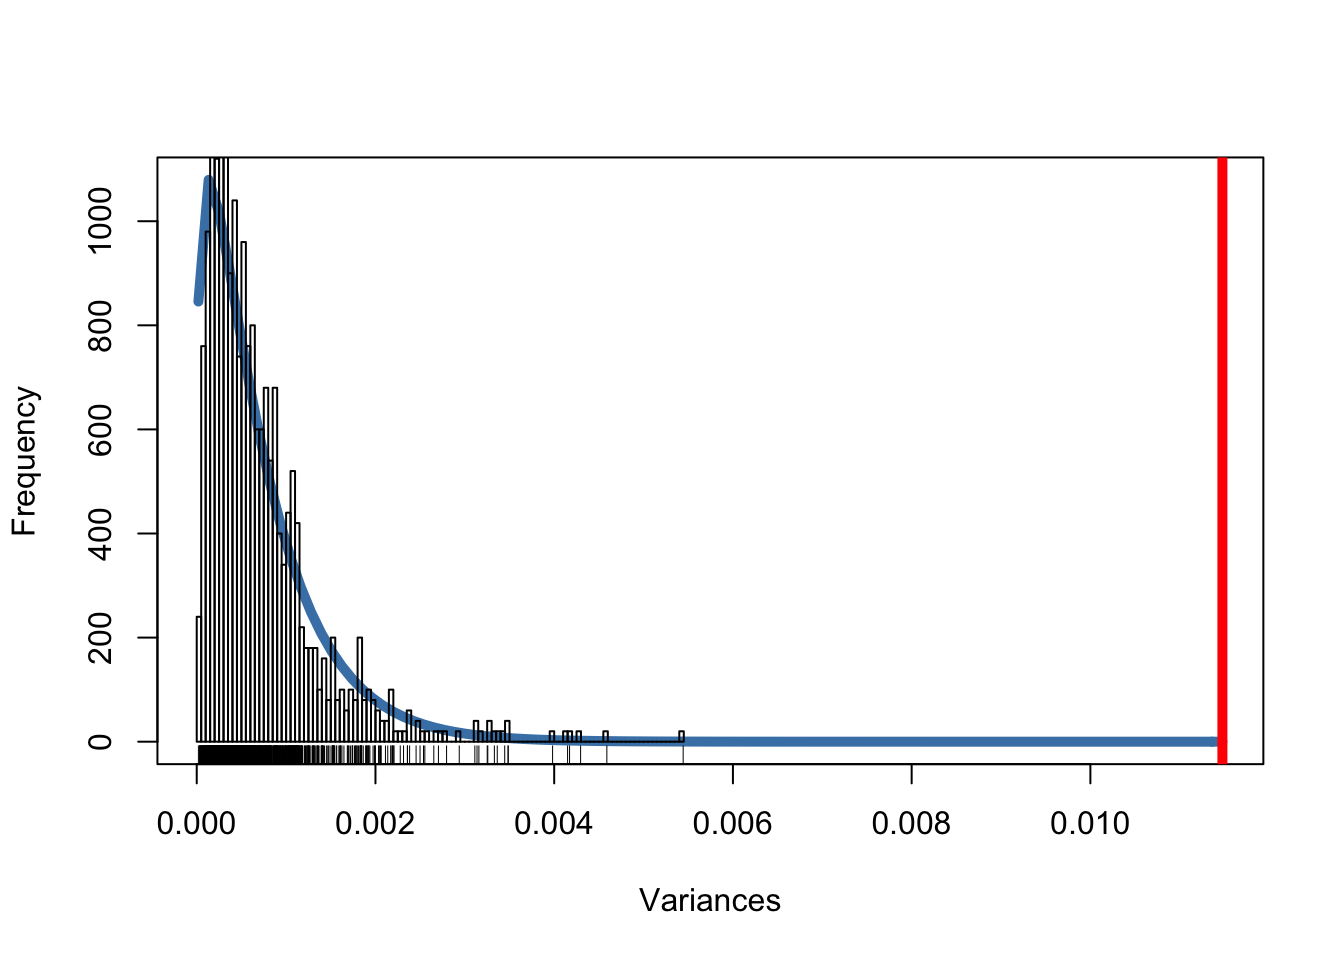
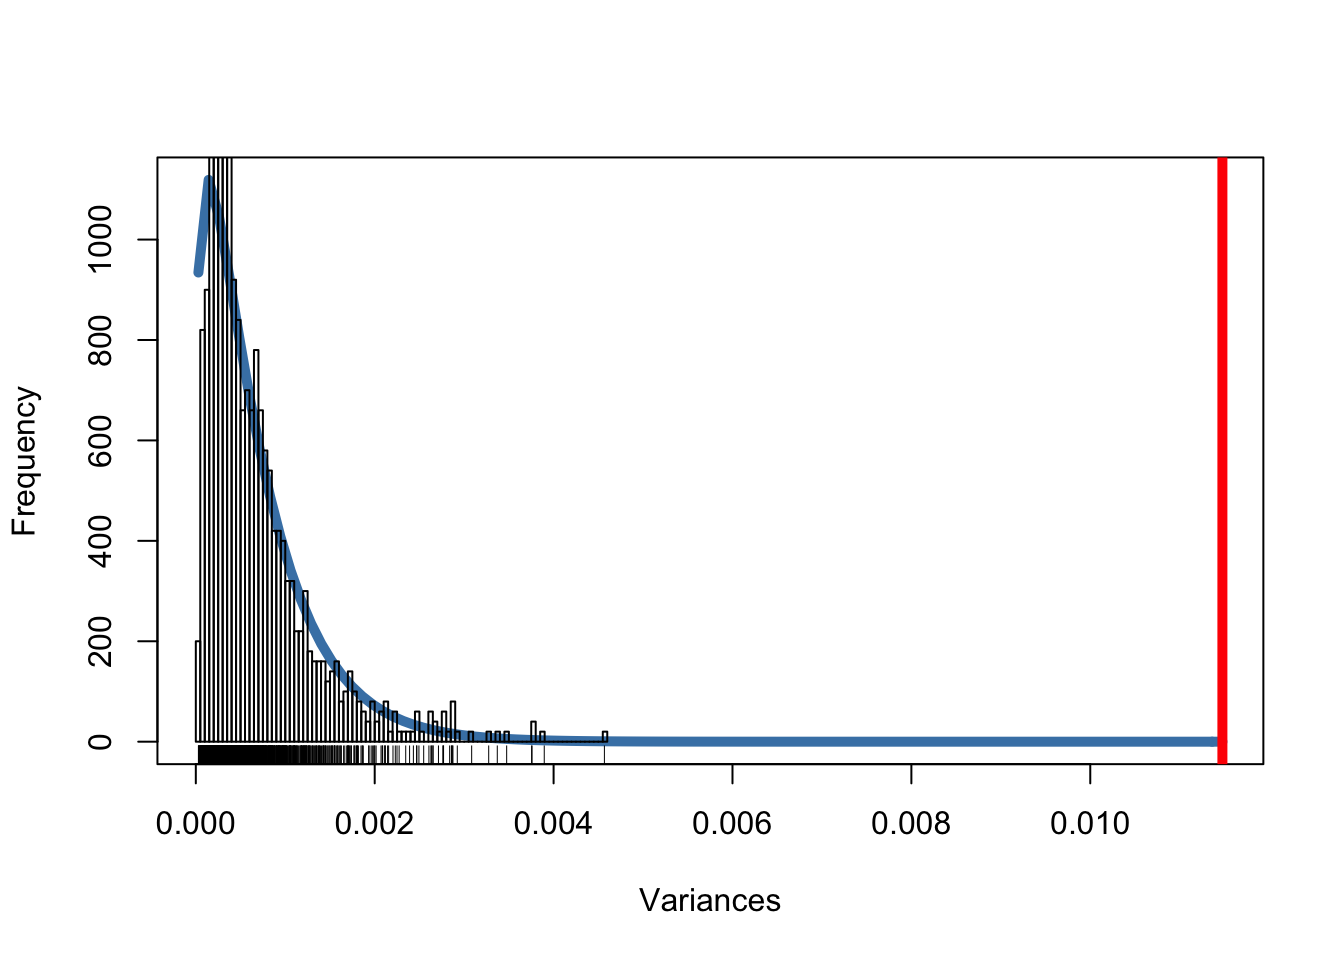
update docs

diff --git a/docs/articles/Intermediate.html b/docs/articles/Intermediate.html
@@ -154,7 +154,7 @@
 <pre><code>#&gt; Plot signature: ' TAI ' and test statistic: ' FlatLineTest '.</code></pre>
 <p><img src="Intermediate_files/figure-html/unnamed-chunk-4-1.png" width="672"></p>
 <pre><code>#&gt;   Zygote Quadrant Globular    Heart  Torpedo     Bent   Mature 
-#&gt; 3.466422 3.488428 3.495646 3.496013 3.506797 3.463541 3.389245</code></pre>
+#&gt; 3.509023 3.508096 3.525607 3.530896 3.509477 3.516558 3.563159</code></pre>
 <pre><code>  Zygote Quadrant Globular    Heart  Torpedo     Bent   Mature 
 3.543700 3.573999 3.554707 3.543376 3.582905 3.562813 3.523409 </code></pre>
 <p>Visualization:</p>
@@ -165,17 +165,17 @@
 <p>Now we investigate the variance of the two observed patterns.</p>
 <pre><code>#&gt; [1] 0.01147725</code></pre>
 <pre><code>[1] 0.01147725</code></pre>
-<pre><code>#&gt; [1] 0.001594469</code></pre>
+<pre><code>#&gt; [1] 0.0003872097</code></pre>
 <pre><code>[1] 0.0004102549</code></pre>
 <p>We observe that the variance of the randomly assigned TAI profile is much smaller than the variance of the correctly assigned TAI profile. Here we use the variance to quantify the <em>flatness</em> of a given TAI profile. In theory the variance of a perfect flat line would be zero. So any TAI profile that is close to zero would resemble a flat line. But how exactly are the variances of randomly assigned TAI profiles distributed? For this purpose the <code><a href="../reference/bootMatrix.html">bootMatrix()</a></code> function was implemented.</p>
 <p>The <code><a href="../reference/bootMatrix.html">bootMatrix()</a></code> takes an PhyloExpressionSet or DivergenceExpressionSet as input and computes N <code>TAI</code> or <code>TDI</code> profiles based on randomly assigned Phylostrata or Divergence-Strata.</p>
 <pre><code>#&gt;     Zygote Quadrant Globular    Heart  Torpedo     Bent   Mature
-#&gt; 1 3.474120 3.478800 3.478647 3.491057 3.490772 3.499926 3.477072
-#&gt; 2 3.554253 3.540531 3.533908 3.522949 3.533968 3.542555 3.524436
-#&gt; 3 3.451429 3.444702 3.469026 3.480706 3.473284 3.482509 3.576852
-#&gt; 4 3.430803 3.433154 3.436687 3.436704 3.400120 3.381230 3.463794
-#&gt; 5 3.494985 3.480247 3.500368 3.495544 3.518639 3.516857 3.507584
-#&gt; 6 3.624289 3.632873 3.645891 3.629026 3.626362 3.595143 3.474762</code></pre>
+#&gt; 1 3.580835 3.539910 3.513707 3.521912 3.528104 3.543361 3.636693
+#&gt; 2 3.461521 3.444057 3.403056 3.411001 3.428876 3.441253 3.457641
+#&gt; 3 3.521691 3.538324 3.556966 3.563347 3.563537 3.554635 3.517139
+#&gt; 4 3.529431 3.521278 3.500941 3.500666 3.513847 3.549420 3.531531
+#&gt; 5 3.519608 3.507732 3.493925 3.498266 3.504370 3.543671 3.543162
+#&gt; 6 3.468701 3.485303 3.507073 3.500929 3.502069 3.492986 3.493320</code></pre>
 <pre><code>    Zygote Quadrant Globular    Heart  Torpedo     Bent   Mature
 1 3.578000 3.577732 3.552230 3.556756 3.555627 3.553580 3.510978
 2 3.590339 3.564544 3.589012 3.598754 3.583721 3.597553 3.633530
@@ -213,12 +213,12 @@ fitdistrplus<span class="op">::</span><span class="kw"><a href="https://www.rdoc
 <p><img src="Intermediate_files/figure-html/unnamed-chunk-12-1.png" width="672"></p>
 <pre><code>#&gt; summary statistics
 #&gt; ------
-#&gt; min:  1.863947e-05   max:  0.005443164 
-#&gt; median:  0.0005358226 
-#&gt; mean:  0.0007105954 
-#&gt; estimated sd:  0.0006425155 
-#&gt; estimated skewness:  2.454932 
-#&gt; estimated kurtosis:  12.14477</code></pre>
+#&gt; min:  2.890457e-05   max:  0.004567979 
+#&gt; median:  0.000490142 
+#&gt; mean:  0.0006800312 
+#&gt; estimated sd:  0.0006102226 
+#&gt; estimated skewness:  2.092799 
+#&gt; estimated kurtosis:  8.853218</code></pre>
 <p>Based on the observation that a gamma distribution is a suitable fit for <code>variance_vector</code>, we can now estimate the parameters of the gamma distribution that fits the data.</p>
 <div class="sourceCode"><pre class="sourceCode r"><code class="sourceCode r"><span class="co"># estimate the parameters: shape and rate using 'moment matching estimation'</span>
 gamma_MME &lt;-<span class="st"> </span>fitdistrplus<span class="op">::</span><span class="kw"><a href="https://www.rdocumentation.org/packages/fitdistrplus/topics/fitdist">fitdist</a></span>(variance_vector,<span class="dt">distr =</span> <span class="st">"gamma"</span>, <span class="dt">method =</span> <span class="st">"mme"</span>)
@@ -248,7 +248,7 @@ histogram &lt;-<span class="st"> </span><span class="kw"><a href="https://www.rd
 <p>Using the gamma distribution with estimated parameters the corresponding p-value of <code>var_real</code> can be computed.</p>
 <div class="sourceCode"><pre class="sourceCode r"><code class="sourceCode r"><span class="co"># p-value of var_real</span>
 <span class="kw"><a href="https://www.rdocumentation.org/packages/stats/topics/GammaDist">pgamma</a></span>(var_real, <span class="dt">shape =</span> shape,<span class="dt">rate =</span> rate, <span class="dt">lower.tail =</span> <span class="ot">FALSE</span>)</code></pre></div>
-<pre><code>#&gt; [1] 5.586162e-09</code></pre>
+<pre><code>#&gt; [1] 1.80424e-09</code></pre>
 <p>Hence, the variance of the correct TAI profile significantly deviates from random TAI profiles and this allows us to assume that the underlying TAI profile captures a real evolutionary signal.</p>
 </div>
 <div id="using-the-flatlinetest-function" class="section level3">
@@ -304,7 +304,7 @@ histogram &lt;-<span class="st"> </span><span class="kw"><a href="https://www.rd
 <li><p>The two differences D1 = <span class="math inline">\(T_{early}\)</span> - <span class="math inline">\(T_{mid}\)</span> and D2 = <span class="math inline">\(T_{late}\)</span> - <span class="math inline">\(T_{mid}\)</span> are calculated.</p></li>
 <li><p>The minimum <span class="math inline">\(D_{min}\)</span> of D1 and D2 is computed as final test statistic of the <strong>Reductive Hourglass Test</strong>.</p></li>
 </ol>
-<p>In order to determine the statistical significance of an observed minimum difference <span class="math inline">\(D_{min}\)</span> the following permutation test was performed. Based on the <code><a href="../reference/bootMatrix.html">bootMatrix()</a></code> <span class="math inline">\(D_{min}\)</span> is calculated from each of the permuted TAI or TDI profiles, approximated by a Gaussian distribution with method of moments estimated parameters returned by <code><a href="https://www.rdocumentation.org/packages/fitdistrplus/topics/fitdist">fitdistrplus::fitdist()</a></code>, and the corresponding p-value is computed by <code>pnorm</code> given the estimated parameters of the Gaussian distribution. The goodness of fit for the random vector <span class="math inline">\(D_{min}\)</span> is statistically quantified by a <a href="http://amstat.tandfonline.com/doi/abs/10.1080/00031305.1986.10475419#.VDjzFCl_vek">Lilliefors (Kolmogorov-Smirnov) test</a> for normality.</p>
+<p>In order to determine the statistical significance of an observed minimum difference <span class="math inline">\(D_{min}\)</span> the following permutation test was performed. Based on the <code><a href="../reference/bootMatrix.html">bootMatrix()</a></code> <span class="math inline">\(D_{min}\)</span> is calculated from each of the permuted TAI or TDI profiles, approximated by a Gaussian distribution with method of moments estimated parameters returned by <code><a href="https://www.rdocumentation.org/packages/fitdistrplus/topics/fitdist">fitdistrplus::fitdist()</a></code>, and the corresponding p-value is computed by <code>pnorm</code> given the estimated parameters of the Gaussian distribution. The goodness of fit for the random vector <span class="math inline">\(D_{min}\)</span> is statistically quantified by a <a href="https://amstat.tandfonline.com/doi/abs/10.1080/00031305.1986.10475419#.XFnCFs_7TOR">Lilliefors (Kolmogorov-Smirnov) test</a> for normality.</p>
 <p>To perform the <strong>Reductive Hourglass Test</strong> you can use the <code><a href="../reference/ReductiveHourglassTest.html">ReductiveHourglassTest()</a></code> function. Using this function you need to divide the given phylotranscriptomic pattern into three developmental modules:</p>
 <ul>
 <li>early module</li>

diff --git a/docs/reference/DiffGenes.html b/docs/reference/DiffGenes.html
@@ -167,13 +167,13 @@
       <th>p.adjust.method</th>
       <td><p>p value correction method that is passed to <code><a href='https://www.rdocumentation.org/packages/stats/topics/p.adjust'>p.adjust</a></code>.
 Available options are:</p><ul>
-<li><p><code>p.adjust.method = "BH"</code> (Benjamini-Hochberg correction)
-<code>p.adjust.method = "bonferroni"</code> (Bonferroni correction)
-<code>p.adjust.method = "holm"</code>
-<code>p.adjust.method = "hochberg"</code>
-<code>p.adjust.method = "hommel"</code>
-<code>p.adjust.method = "BY"</code>
-<code>p.adjust.method = "fdr"</code></p></li>
+<li><p><code>p.adjust.method = "BH"</code> (Benjamini-Hochberg correction)</p></li>
+<li><p><code>p.adjust.method = "bonferroni"</code> (Bonferroni correction)</p></li>
+<li><p><code>p.adjust.method = "holm"</code></p></li>
+<li><p><code>p.adjust.method = "hochberg"</code></p></li>
+<li><p><code>p.adjust.method = "hommel"</code></p></li>
+<li><p><code>p.adjust.method = "BY"</code></p></li>
+<li><p><code>p.adjust.method = "fdr"</code></p></li>
 </ul><p>If <code>p.adjust.method = NULL</code> (Default) then no p-value correction is performed.</p></td>
     </tr>
     <tr>
@@ -218,7 +218,7 @@ transformed expression levels are stored in your input <code>ExpresisonSet</code
 <li><p><code>method = "wilcox.test"</code>: Wilcoxon Rank Sum Test between replicate expression levels of two samples.</p></li>
 <li><p><code>method = "doubletail"</code>: Computes two-sided p-values by doubling the smaller tail probability (see <code><a href='https://www.rdocumentation.org/packages/edgeR/topics/exactTest'>exactTestDoubleTail</a></code> for details).</p></li>
 <li><p><code>method = "smallp"</code>: Performs the method of small probabilities as proposed by Robinson and Smyth (2008) (see <code><a href='https://www.rdocumentation.org/packages/edgeR/topics/exactTest'>exactTestBySmallP</a></code> for details).</p></li>
-<li><p><code>method = "deviance"</code>: Uses the deviance goodness of fit statistics to define the rejection region, and is therefore equivalent to a conditional likelihood ratio test (see <code><a href='https://www.rdocumentation.org/packages/edgeR/topics/exactTest'>exactTestByDeviance</a></code> for details).</p></li>
+<li><p><code>method = "deviance"</code>: Uses the deviance goodness of fit statistics to define the rejection region, and is therefore equivalent to a conditional likelihood ratio test (see <code>edgeR</code> package for details).</p></li>
 </ul>
     <p>Exclude non differentially expressed genes from the result dataset:</p>
 <p>When specifying the <code>alpha</code> argument you furthermore, need to specify the <code>filter.method</code> to decide how non differentially expressed genes should be classified in multiple sample comparisons and which genes should be retained in the final dataset returned by <code>DiffGenes</code>. In other words, all genes &lt; <code>alpha</code> based on the following <code>filter.method</code> are removed from the result dataset.</p>

diff --git a/docs/reference/tf.html b/docs/reference/tf.html
@@ -192,7 +192,7 @@ to quantify the significance of interest.</p>
     <p>Piasecka B, Lichocki P, Moretti S, et al. (2013) The hourglass and the early conservation models--co-existing patterns of developmental constraints in vertebrates. PLoS Genet. 9(4): e1003476.</p>
 <p>Quint M., Drost H.G., Gabel A., Ullrich K.K., Boenn M., Grosse I. (2012) A transcriptomic hourglass in plant embryogenesis. Nature 490: 98-101.</p>
 <p>Domazet-Loso T., Tautz D. (2010) A phylogenetically based transcriptome age index mirrors ontogenetic divergence patterns. Nature 468: 815-8.</p>
-<p>Drost H.G., Gabel A., Grosse I., Quint M. (2015) Evidence for Active Maintenance of Phylotranscriptomic Hourglass Patterns in Animal and Plant Embryogenesis. Mol Biol Evol. 32 (5): 1221-1231. doi: 10.1093/molbev/msv012</p>
+<p>Drost HG et al. (2015) Mol Biol Evol. 32 (5): 1221-1231 doi:10.1093/molbev/msv012</p>
 <p>K.Y. Yeung et al.: Model-based clustering and data transformations for gene expression data. Bioinformatics 2001, 17:977-987</p>
 <p>K.Y. Yeung et al.:  Supplement to Model-based clustering and data transformations for gene expression data - Data Transformations and the Gaussian mixture assumption. Bioinformatics 2001, 17:977-987</p>
 <p>P.A.C. Hoen et al.: Deep sequencing-based expression analysis shows major advances in robustness, resolution and inter-lab portability over five microarray platforms. Nucleic Acids Research 2008, Vol. 36, No. 21</p>

diff --git a/docs/articles/Introduction.html b/docs/articles/Introduction.html
@@ -154,7 +154,9 @@
 <h2 class="hasAnchor">
 <a href="#motivation" class="anchor"></a>Motivation</h2>
 <p>Using embryo development of the plant <em>Arabidopsis thaliana</em> as an example, we ask the user to imagine how one would investigate the differences of developmental transcriptomes across developmental stages.</p>
-<p><img src="inst/Figures/Fig1.png" align="right" height="500" width="500"></p>
+<div class="figure">
+<img src="../../../../R%20Packages/Packages/myTAI/vignettes/Figures/Fig1.png">
+</div>
 <p style="font-size:10px;">
 Figure 1: Gene expression distributions (= developmental transcriptome) throughout seven stages of <em>A. thaliana</em> embryo development. Embryo development is divided into three phases: early embryogenesis (purple), mid-embryogenesis (green), and late embryogenesis (brown). This boxplot illustrates that the overall distributions of log2 expression levels (y-axis) hardly differ between developmental stages (x-axis) although the difference on the global scale is statistically significant (Kruskal-Wallis Rank Sum Test: p &lt; 2e-16). Hence, a clear visual pattern of gene expression differences between early, mid, and late embryogenesis on the global scale can not be inferred. Adapted from <a href="http://digital.bibliothek.uni-halle.de/urn/urn:nbn:de:gbv:3:4-18221">Drost, 2016</a>.
 </p>

diff --git a/docs/reference/CombinatorialSignificance.html b/docs/reference/CombinatorialSignificance.html
@@ -199,7 +199,6 @@ statistical significance of each pattern derived by the corresponding combinatio
 <li><p>1.3, 2.1, 3.1 -&gt; p-value for combination 7</p></li>
 <li><p>1.3, 2.2, 3.1 -&gt; p-value for combination 8</p></li>
 <li><p>1.3, 2.3, 3.1 -&gt; p-value for combination 9</p></li>
-<li><p>&#8230;</p></li>
 </ul><p>This procedure yields 27 p-values for the \(3^3\) (\(n_stages^n_replicates\)) replicate combinations.</p>
 <p>Note, that in case you have a large amount of stages/experiments and a large amount of replicates
 the computation time will increase by \(n_stages^n_replicates\). For 11 stages and 4 replicates, 4^11 = 4194304 p-values have to be computed. 
@@ -212,7 +211,7 @@ whether an critical value \(\alpha\) is exeeded or not (e.g. \(\alpha = 0.05\)).
     
     <h2 class="hasAnchor" id="references"><a class="anchor" href="#references"></a>References</h2>
 
-    <p>Drost HG et al. (2015). <em>Evidence for Active Maintenance of Phylotranscriptomic Hourglass Patterns in Animal and Plant Embryogenesis</em>. Mol Biol Evol. 32 (5): 1221-1231 doi:10.1093/molbev/msv012.</p>
+    <p>Drost HG et al. (2015) Mol Biol Evol. 32 (5): 1221-1231 doi:10.1093/molbev/msv012</p>
     
     <h2 class="hasAnchor" id="see-also"><a class="anchor" href="#see-also"></a>See also</h2>
 

diff --git a/docs/reference/MatchMap.html b/docs/reference/MatchMap.html
@@ -191,7 +191,7 @@ one expression level for one unique gene.</p>
     <p>Domazet-Loso T, Brajkovic J, Tautz D (2007) A phylostratigraphy approach to uncover the genomic history of major adaptations in metazoan lineages. Trends Genet. 23: 533-9.</p>
 <p>Domazet-Loso T, Tautz D (2010) A phylogenetically based transcriptome age index mirrors ontogenetic divergence patterns. Nature 468: 815-8.</p>
 <p>Quint M., Drost H.G., Gabel A., Ullrich K.K., Boenn M., Grosse I. (2012) A transcriptomic hourglass in plant embryogenesis. Nature 490: 98-101.</p>
-<p>Drost HG et al. (2015) <em>Evidence for Active Maintenance of Phylotranscriptomic Hourglass Patterns in Animal and Plant Embryogenesis</em>. Mol Biol Evol. 32 (5): 1221-1231 doi:10.1093/molbev/msv012.</p>
+<p>Drost HG et al. (2015) Mol Biol Evol. 32 (5): 1221-1231 doi:10.1093/molbev/msv012</p>
     
 
     <h2 class="hasAnchor" id="examples"><a class="anchor" href="#examples"></a>Examples</h2>

diff --git a/docs/reference/FlatLineTest.html b/docs/reference/FlatLineTest.html
@@ -209,7 +209,7 @@ is computed from this null distribution.</p>
     
     <h2 class="hasAnchor" id="references"><a class="anchor" href="#references"></a>References</h2>
 
-    <p>Drost HG et al.(2015). <em>Evidence for Active Maintenance of Phylotranscriptomic Hourglass Patterns in Animal and Plant Embryogenesis</em>. Mol Biol Evol. 32 (5): 1221-1231 doi:10.1093/molbev/msv012.</p>
+    <p>Drost HG et al. (2015) Mol Biol Evol. 32 (5): 1221-1231 doi:10.1093/molbev/msv012</p>
 <p>Quint M et al. (2012). A transcriptomic hourglass in plant embryogenesis. Nature (490): 98-101.</p>
 <p>M. L. Delignette-Muller, R. Pouillot, J.-B. Denis and C. Dutang (2014), fitdistrplus: help to fit of a parametric distribution to non-censored or censored data.</p>
 <p>Cullen AC and Frey HC (1999) Probabilistic techniques in exposure assessment. Plenum Press, USA, pp. 81-159.</p>

diff --git a/docs/reference/EarlyConservationTest.html b/docs/reference/EarlyConservationTest.html
@@ -235,7 +235,7 @@ This allows to quantify the permutation bias and their implications on the goodn
     
     <h2 class="hasAnchor" id="references"><a class="anchor" href="#references"></a>References</h2>
 
-    <p>Drost HG et al. (2015) <em>Evidence for Active Maintenance of Phylotranscriptomic Hourglass Patterns in Animal and Plant Embryogenesis</em>. Mol Biol Evol. 32 (5): 1221-1231 doi:10.1093/molbev/msv012.</p>
+    <p>Drost HG et al. (2015) Mol Biol Evol. 32 (5): 1221-1231 doi:10.1093/molbev/msv012</p>
 <p>Quint M et al. (2012). <em>A transcriptomic hourglass in plant embryogenesis</em>. Nature (490): 98-101.</p>
 <p>Piasecka B, Lichocki P, Moretti S, et al. (2013) <em>The hourglass and the early conservation models co-existing
 patterns of developmental constraints in vertebrates</em>. PLoS Genet. 9(4): e1003476.</p>

diff --git a/docs/reference/ReductiveHourglassTest.html b/docs/reference/ReductiveHourglassTest.html
@@ -235,7 +235,7 @@ This allows to quantify the permutation bias and their implications on the goodn
     
     <h2 class="hasAnchor" id="references"><a class="anchor" href="#references"></a>References</h2>
 
-    <p>Drost HG et al. (2015) <em>Evidence for Active Maintenance of Phylotranscriptomic Hourglass Patterns in Animal and Plant Embryogenesis</em>. Mol Biol Evol. 32 (5): 1221-1231 doi:10.1093/molbev/msv012.</p>
+    <p>Drost HG et al. (2015) Mol Biol Evol. 32 (5): 1221-1231 doi:10.1093/molbev/msv012</p>
 <p>Quint M et al. (2012). A transcriptomic hourglass in plant embryogenesis. Nature (490): 98-101.</p>
 <p>M. L. Delignette-Muller, R. Pouillot, J.-B. Denis and C. Dutang (2014), fitdistrplus: help to fit
 of a parametric distribution to non-censored or censored data.</p>

diff --git a/docs/reference/ReverseHourglassTest.html b/docs/reference/ReverseHourglassTest.html
@@ -234,7 +234,7 @@ This allows to quantify the permutation bias and their implications on the goodn
     
     <h2 class="hasAnchor" id="references"><a class="anchor" href="#references"></a>References</h2>
 
-    <p>Drost HG et al. (2015) <em>Evidence for Active Maintenance of Phylotranscriptomic Hourglass Patterns in Animal and Plant Embryogenesis</em>. Mol Biol Evol. 32 (5): 1221-1231 doi:10.1093/molbev/msv012.</p>
+    <p>Drost HG et al. (2015) Mol Biol Evol. 32 (5): 1221-1231 doi:10.1093/molbev/msv012</p>
 <p>Quint M et al. (2012). A transcriptomic hourglass in plant embryogenesis. Nature (490): 98-101.</p>
 <p>M. L. Delignette-Muller, R. Pouillot, J.-B. Denis and C. Dutang (2014), fitdistrplus: help to fit
 of a parametric distribution to non-censored or censored data.</p>

diff --git a/docs/reference/PlotPattern.html b/docs/reference/PlotPattern.html
@@ -250,7 +250,7 @@ the values stored in the <code>mid</code> argument to draw a shaded area within 
 
     <p>Domazet-Loso T and Tautz D. (2010). <em>A phylogenetically based transcriptome age index mirrors ontogenetic divergence patterns</em>. Nature (468): 815-818.</p>
 <p>Quint M et al. (2012). <em>A transcriptomic hourglass in plant embryogenesis</em>. Nature (490): 98-101.</p>
-<p>Drost HG et al. (2015) <em>Evidence for Active Maintenance of Phylotranscriptomic Hourglass Patterns in Animal and Plant Embryogenesis</em>. Mol Biol Evol. 32 (5): 1221-1231 doi:10.1093/molbev/msv012.</p>
+<p>Drost HG et al. (2015) Mol Biol Evol. 32 (5): 1221-1231 doi:10.1093/molbev/msv012.</p>
     
     <h2 class="hasAnchor" id="see-also"><a class="anchor" href="#see-also"></a>See also</h2>
 

diff --git a/docs/reference/TAI.html b/docs/reference/TAI.html
@@ -169,7 +169,7 @@ and ps_i denotes the corresponding phylostratum of gene i, \(i = 1,...,N\) and N
 
     <p>Domazet-Loso T. and Tautz D. (2010). <em>A phylogenetically based transcriptome age index mirrors ontogenetic divergence patterns</em>. Nature (468): 815-818.</p>
 <p>Quint M et al. (2012). <em>A transcriptomic hourglass in plant embryogenesis</em>. Nature (490): 98-101.</p>
-<p>Drost HG et al. (2015) <em>Evidence for Active Maintenance of Phylotranscriptomic Hourglass Patterns in Animal and Plant Embryogenesis</em>. Mol Biol Evol. 32 (5): 1221-1231 doi:10.1093/molbev/msv012.</p>
+<p>Drost HG et al. (2015) Mol Biol Evol. 32 (5): 1221-1231 doi:10.1093/molbev/msv012</p>
     
     <h2 class="hasAnchor" id="see-also"><a class="anchor" href="#see-also"></a>See also</h2>
 
